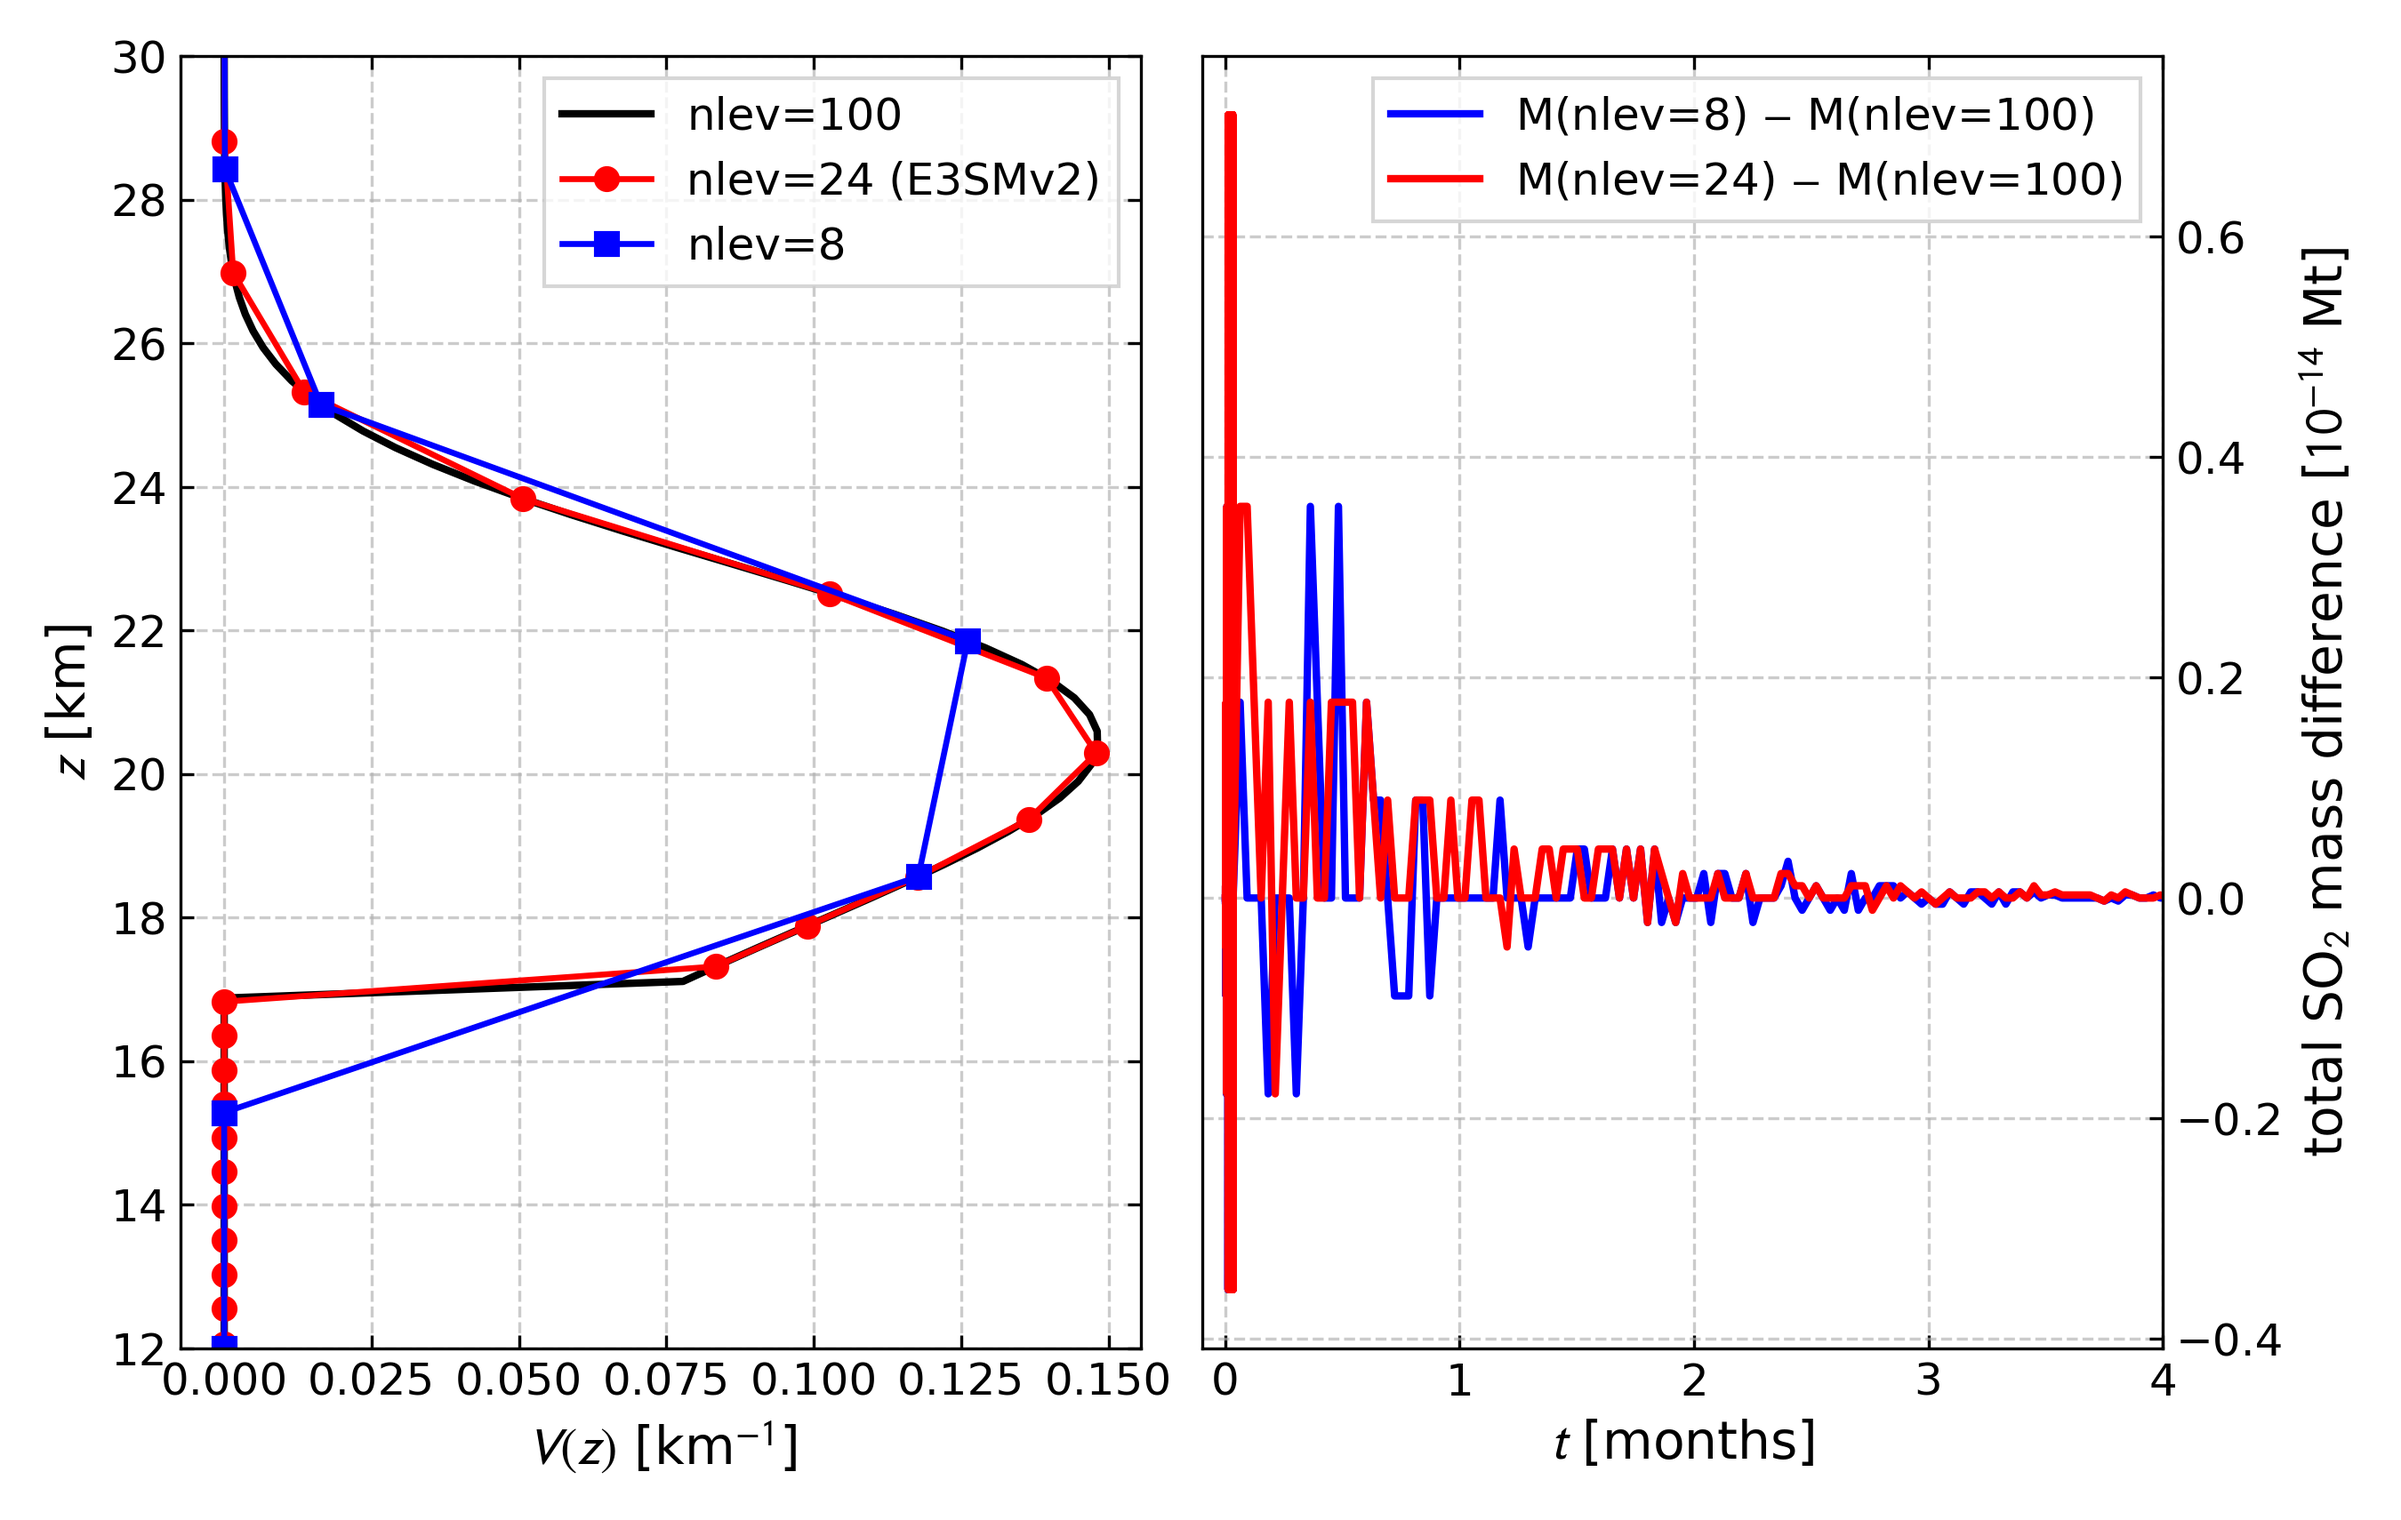
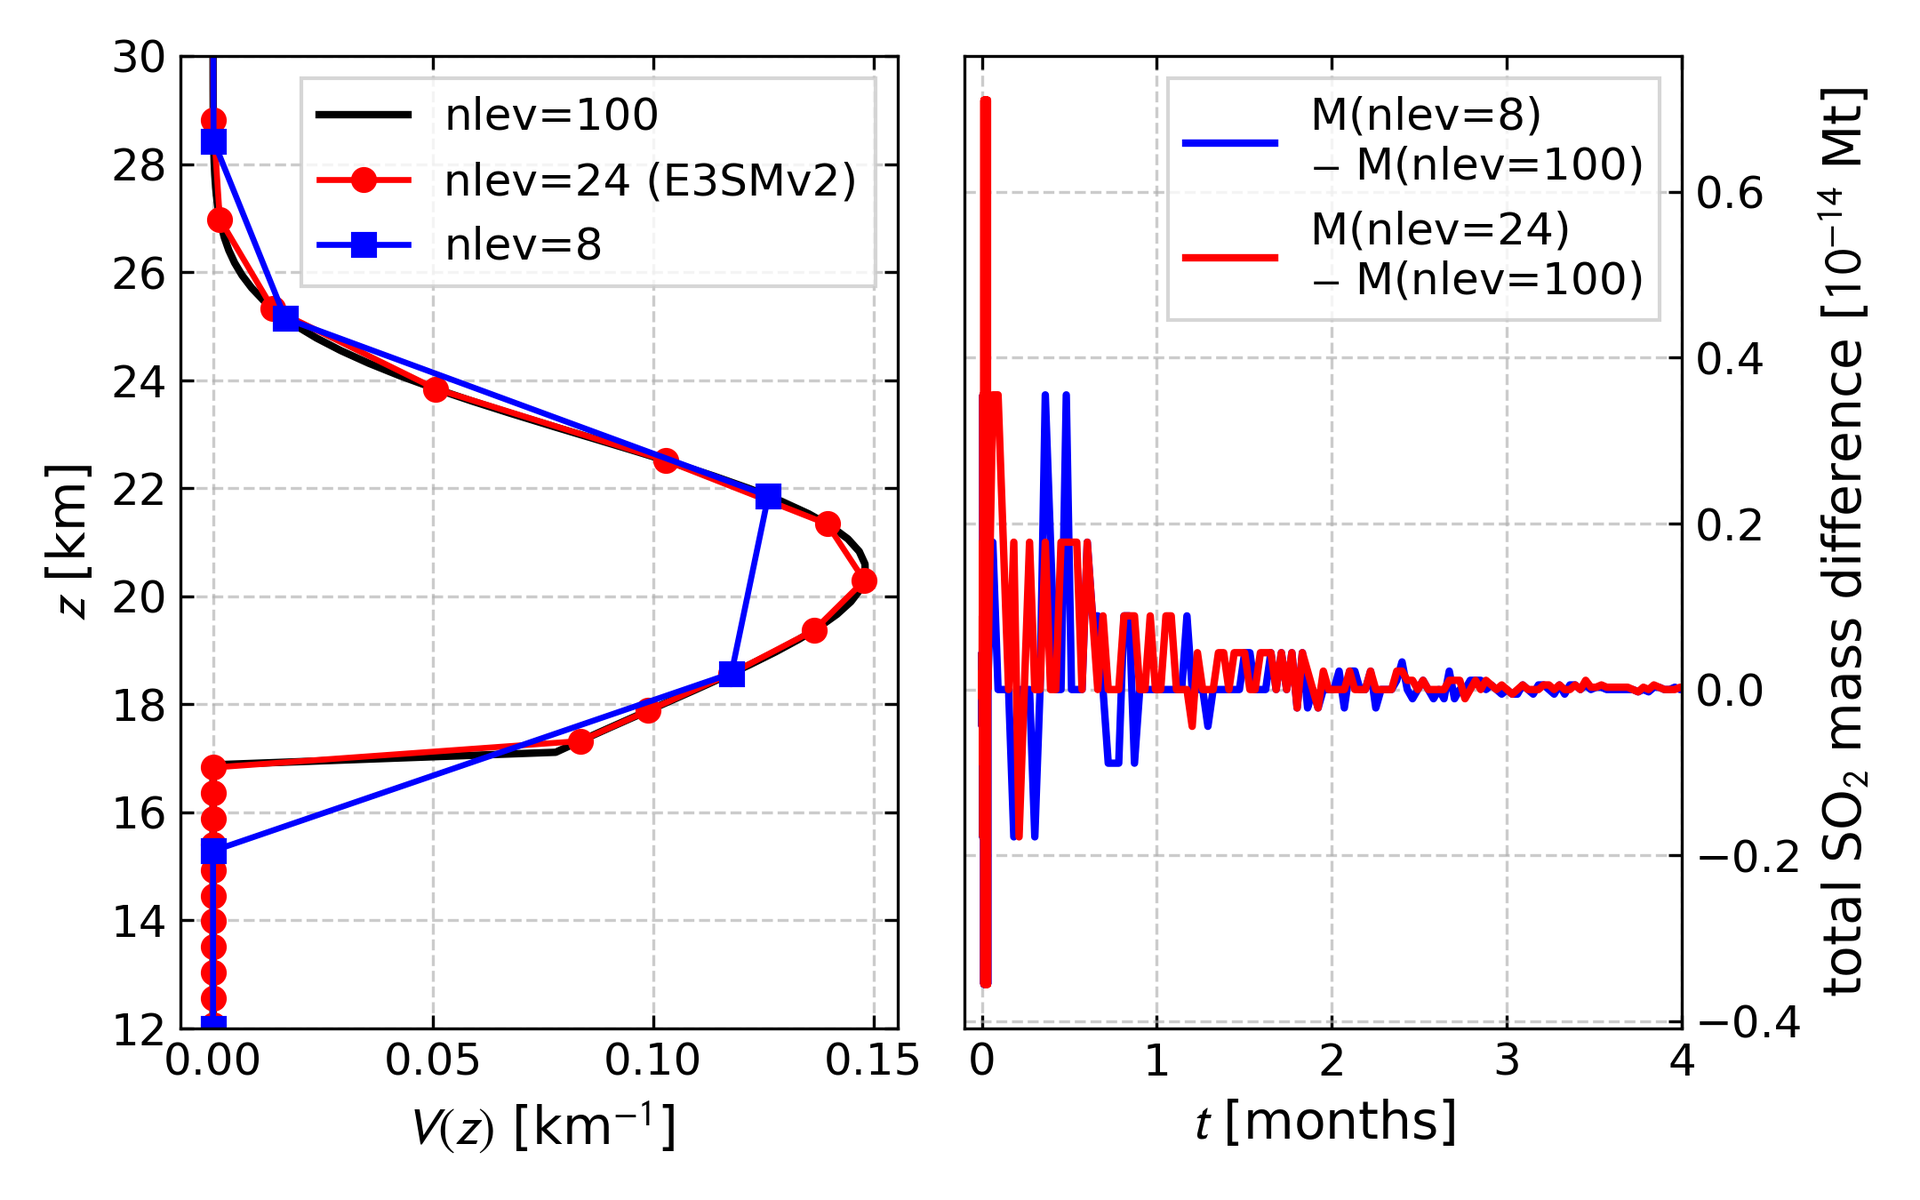
improved formatting for figure

diff --git a/CLDERA/SAI/analysis/vis_plume_column.py b/CLDERA/SAI/analysis/vis_plume_column.py
@@ -96,7 +96,6 @@ def compute_tracer_evolution(nlev = 100, zk = None, dt_inject = None, dt_decay =
 
     # ---------- normalization ----------
     A  = [MM[j] / (tf * sVk) for j in range(len(MM))]
-    pdb.set_trace()
 
     # ---------- tendencies ----------
     if(not timestep_correction):
@@ -379,7 +378,7 @@ if(z_figure):
     print('----- plotting z figure')
     
     # ---------- vis ----------
-    fig = plt.figure(figsize=(9,5.7))
+    fig = plt.figure(figsize=(7.2,4.5))
     gs = fig.add_gridspec(nrows=1, ncols=2)
     axV = fig.add_subplot(gs[0,0])
     axM = fig.add_subplot(gs[0,1:])
@@ -406,9 +405,9 @@ if(z_figure):
 
     # ----- line plots of total mass
     axM.plot(t.to(u.month), (m_tot_8[0]-m_tot_100[0]) * 1e14, '-b', lw=2, 
-                            label='M(nlev=8) $-$ M(nlev=100)')
+                            label='M(nlev=8) \n$-$ M(nlev=100)')
     axM.plot(t.to(u.month), (m_tot_e3sm[0]-m_tot_100[0]) * 1e14, '-r', lw=2, 
-                             label='M(nlev=24) $-$ M(nlev=100)')
+                             label='M(nlev=24) \n$-$ M(nlev=100)')
     
     axM.set_xlabel('$t$ [months]', fontsize=label_fs)
     axM.set_ylabel('total SO$_2$ mass difference [$10^{-14}$ Mt]', fontsize=label_fs)
